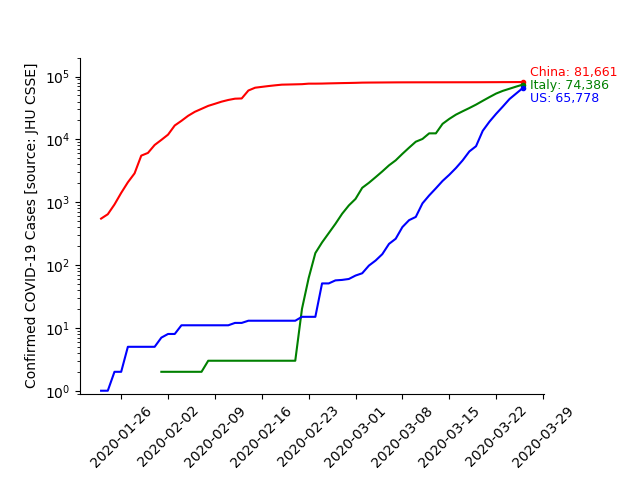
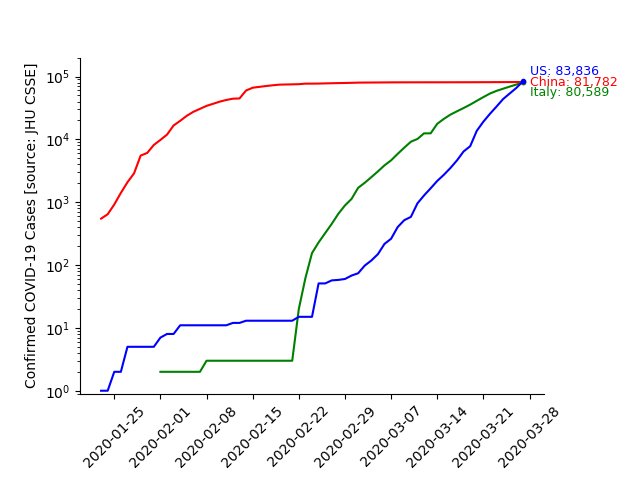
US NUMBA ONE, CHINA NUMBA TWO!

diff --git a/plot_cases.py b/plot_cases.py
@@ -35,15 +35,15 @@ for ii in ts_confirmed.columns[4:]:
 fig, ax = plt.subplots()
 plt.semilogy(dates[np.where(cases_cn>0)[0][0]:], cases_cn[cases_cn>0], 'r-')
 plt.semilogy(dates[-1], cases_cn[-1], 'r.')
-ax.annotate('China: {:,}'.format(cases_cn[-1]), (dates[-1]+dt.timedelta(days=1), 1.25*cases_cn[-1]), color='red', fontsize=9)
+ax.annotate('China: {:,}'.format(cases_cn[-1]), (dates[-1]+dt.timedelta(days=1), 0.85*cases_cn[-1]), color='red', fontsize=9)
 
 plt.semilogy(dates[np.where(cases_it>0)[0][0]:], cases_it[cases_it>0], 'g-')
 plt.semilogy(dates[-1], cases_it[-1], 'g.')
-ax.annotate('Italy: {:,}'.format(cases_it[-1]), (dates[-1]+dt.timedelta(days=1), 0.85*cases_it[-1]), color='green', fontsize=9)
+ax.annotate('Italy: {:,}'.format(cases_it[-1]), (dates[-1]+dt.timedelta(days=1), 0.6*cases_it[-1]), color='green', fontsize=9)
 
 plt.semilogy(dates[np.where(cases_us>0)[0][0]:], cases_us[cases_us>0], 'b-')
 plt.semilogy(dates[-1], cases_us[-1], 'b.')
-ax.annotate('US: {:,}'.format(cases_us[-1]), (dates[-1]+dt.timedelta(days=1), 0.6*cases_us[-1]), color='blue', fontsize=9)
+ax.annotate('US: {:,}'.format(cases_us[-1]), (dates[-1]+dt.timedelta(days=1), 1.25*cases_us[-1]), color='blue', fontsize=9)
 
 #plt.semilogy(dates[np.where(cases_sk>0)[0][0]:], cases_sk[cases_sk>0], '.-', label='South Korea')
 #plt.semilogy(dates[np.where(cases_jp>0)[0][0]:], cases_jp[cases_jp>0], '.-', label='Japan')
